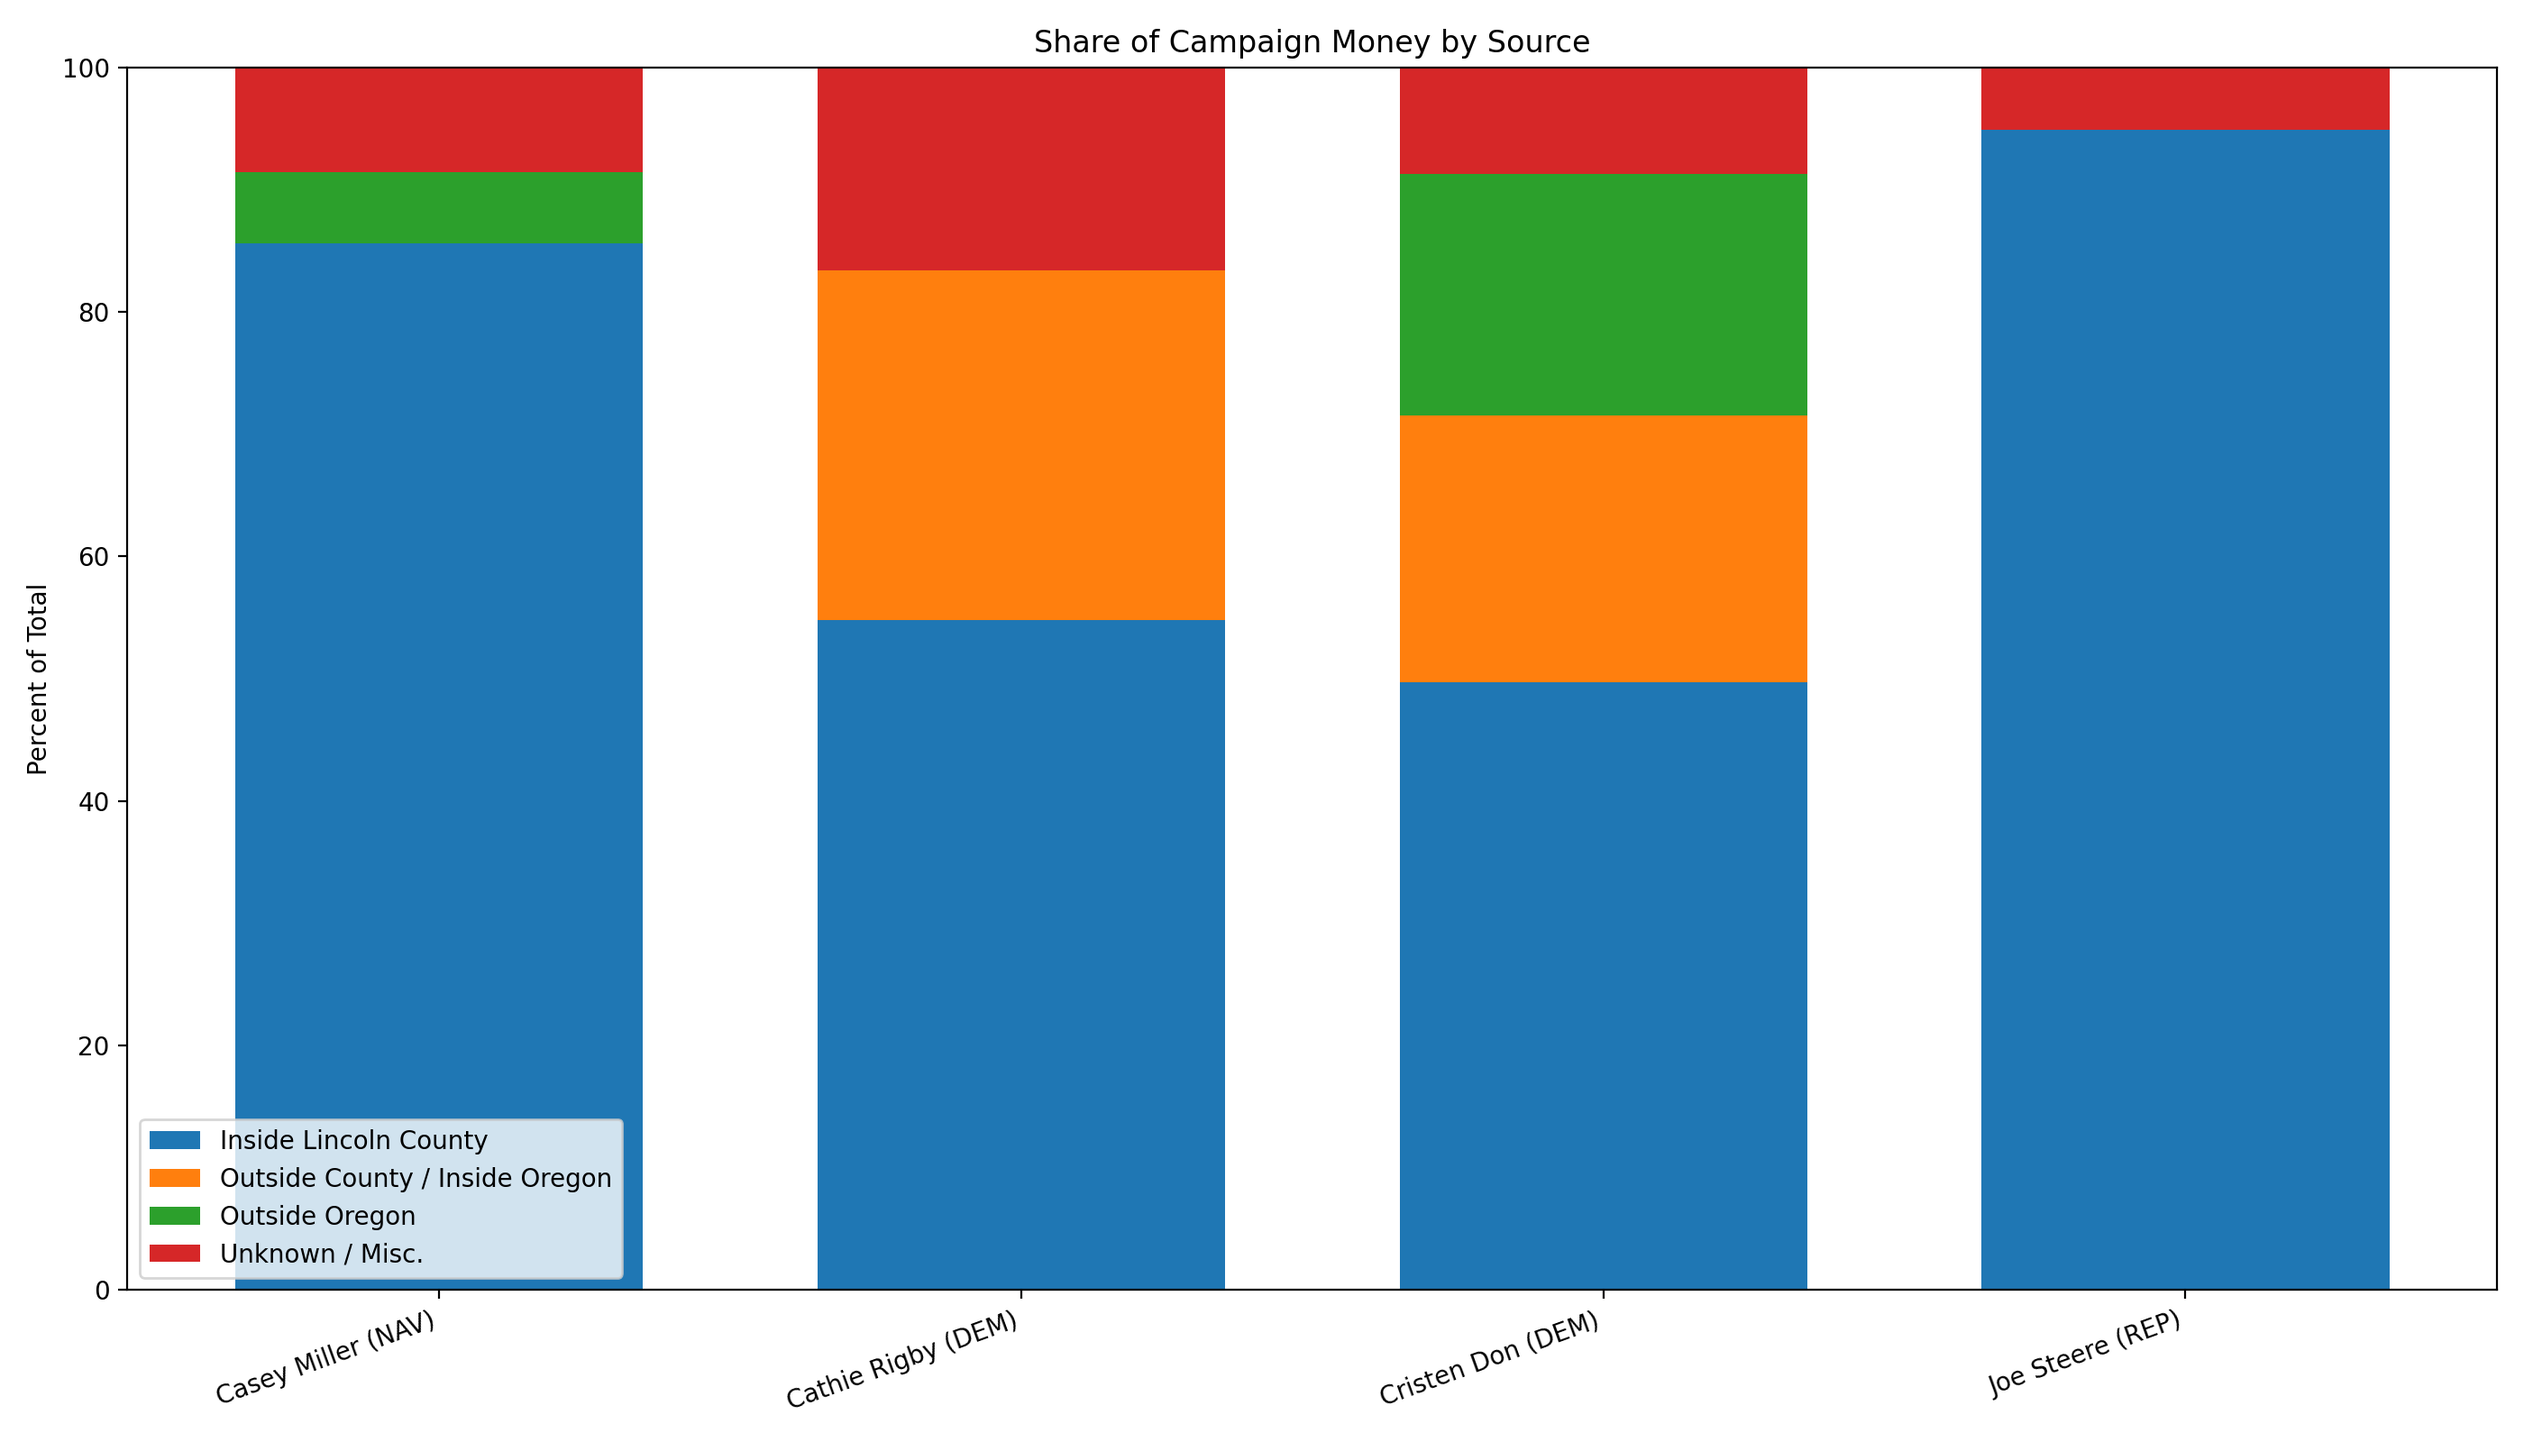
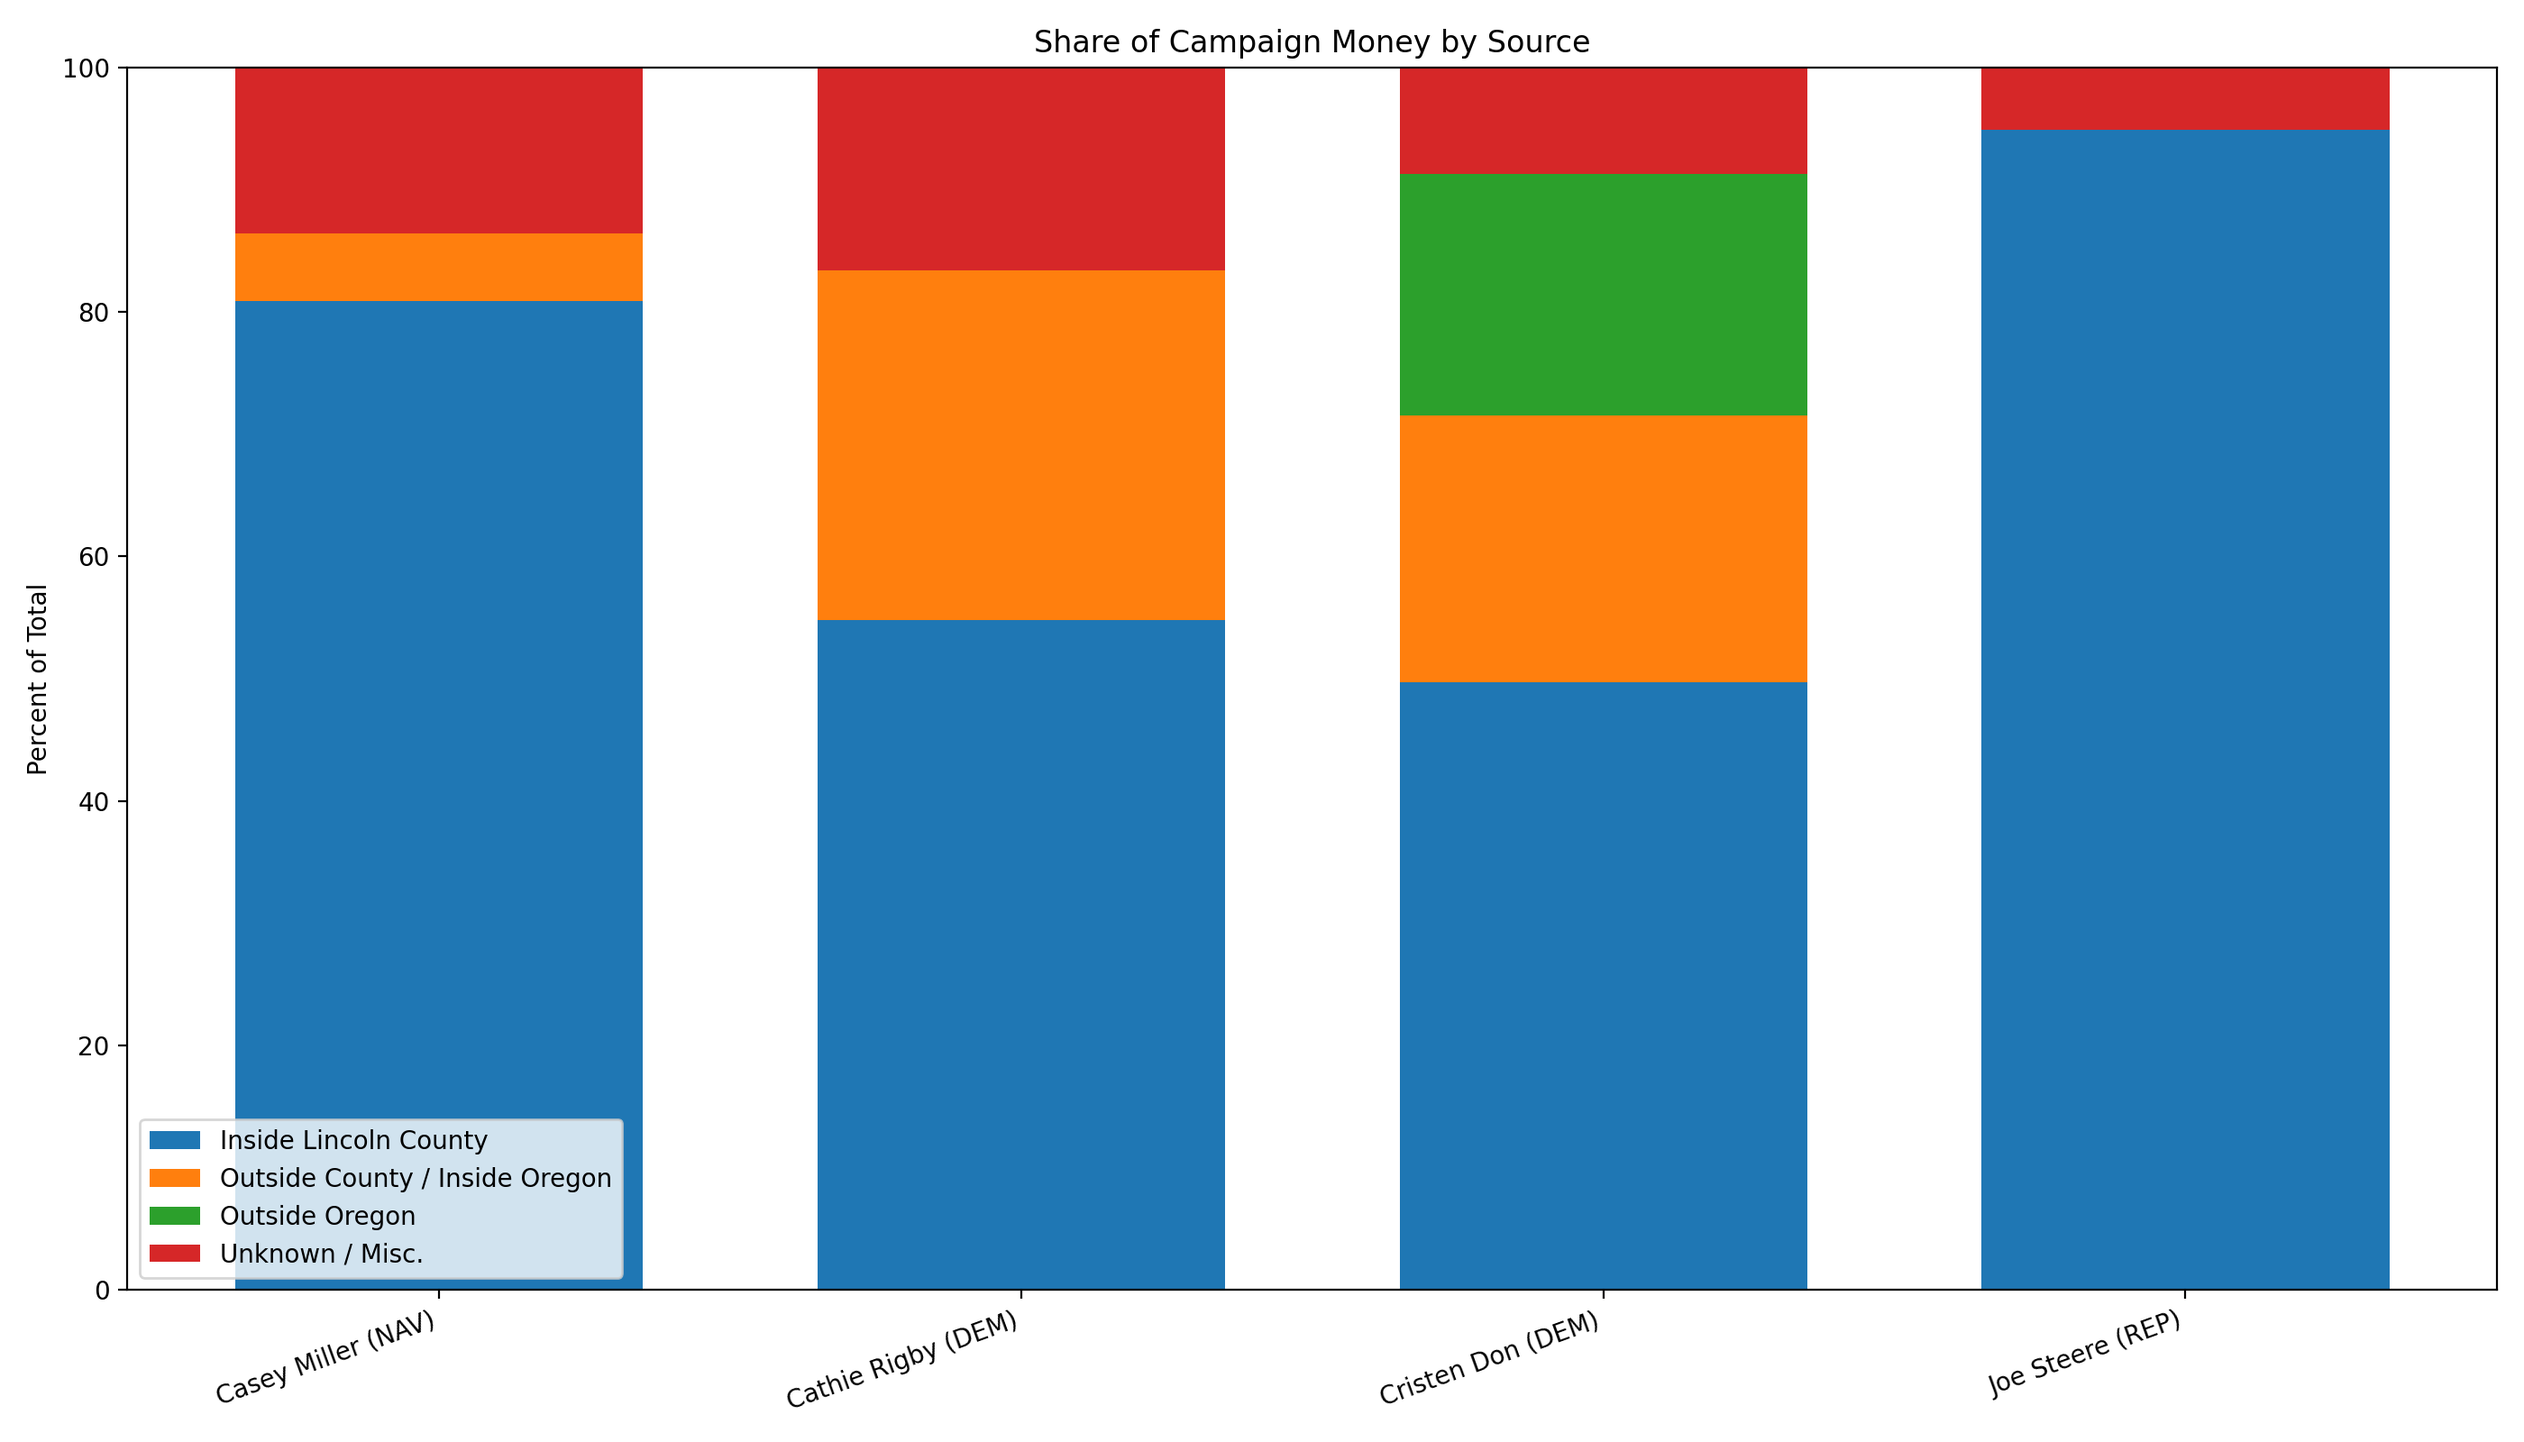
Fix address of End of The Trail, LLC

Changed region(s): [[0.0932, 0.0938, 0.2796, 0.2188]]

diff --git a/campaign_builder.py b/campaign_builder.py
@@ -93,6 +93,16 @@ class CampaignFinanceReportBuilder:
             state = raw_row.get("State", "").strip().upper()
             zip_code = self._normalize_zip(raw_row.get("Zip", ""))
 
+            # C&E Systems miskeyed this business, the correct address is:
+            # 423 NW Ivy Ave, Dallas, OR 97338
+            # per
+            # https://egov.sos.state.or.us/br/pkg_web_name_srch_inq.show_detl?p_be_rsn=1078854&p_srce=BR_INQ&p_print=FALSE
+            if contributor_payee.lower().replace(",", "").strip() == "end of the trail llc":
+                contributor_payee = "End Of The Trail, LLC"
+                city = "Dallas"
+                state = "OR"
+                zip_code = "97338"
+
             emp_name = self._derive_emp_name(
                 emp_name=raw_row.get("Emp Name", ""),
                 employ_ind=raw_row.get("Employ Ind", ""),

diff --git a/README.md b/README.md
@@ -1,5 +1,5 @@
 # ORESTAR Campaign Donations
-For Lincoln County Commissioner Candidates
+For Lincoln County Commissioner Candidates<br/>
 As of October 18, 2026
 
 ## campaign-money-by-source
@@ -38,8 +38,8 @@ Yes      Yes      Patricia Ferrell-French (DEM)                 250.00  Waldport
 Yes      Yes      Rose Jade (DEM)                               250.00  Newport         OR   
 Yes      Yes      Total                                       7,369.58                       
 
-No       No       End Of The Trail, LLC                         500.00  Price           UT   
-No       No       Total                                         500.00                       
+Yes      No       End Of The Trail, LLC                         500.00  Dallas          OR   
+Yes      No       Total                                         500.00                       
 
 n/a      n/a      Misc. Cash Contributions up to $100 (12)    1,175.00                       
 n/a      n/a      Misc. In-Kind Contributions up to $100 (1)     67.26                       
